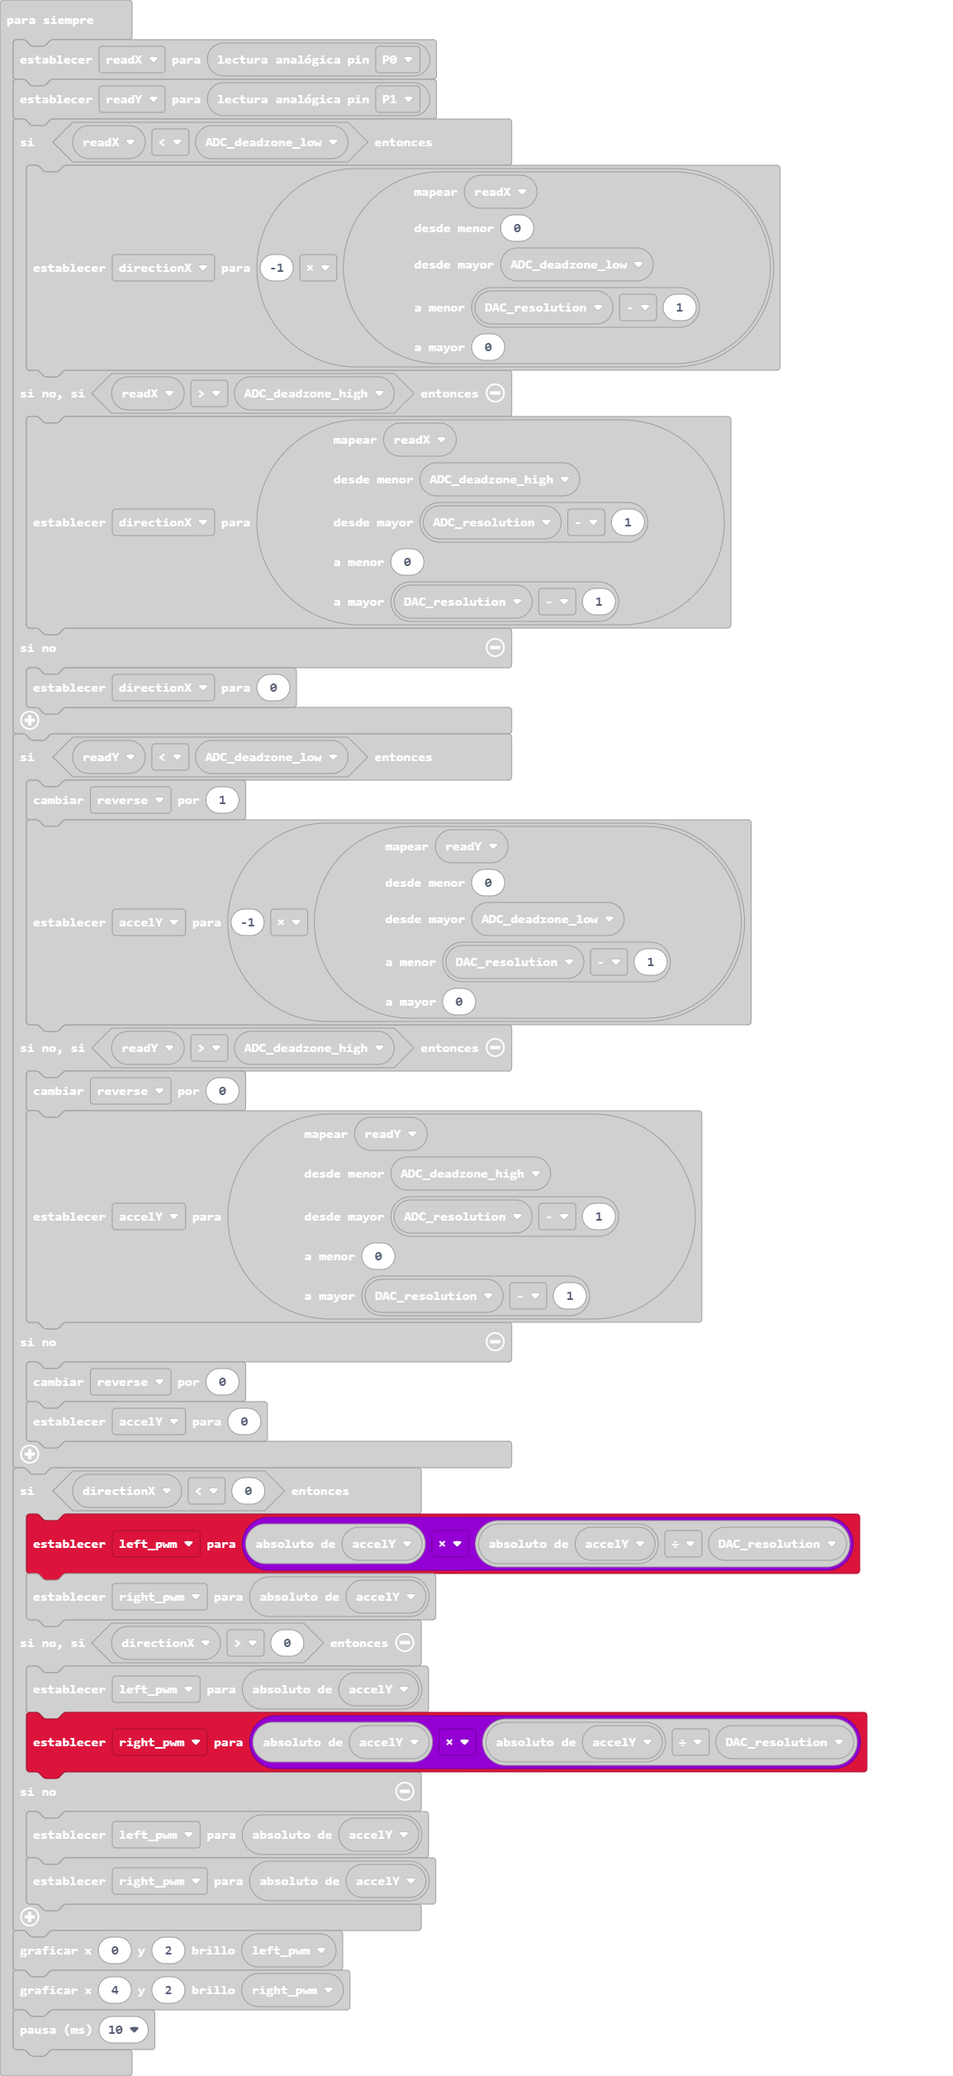
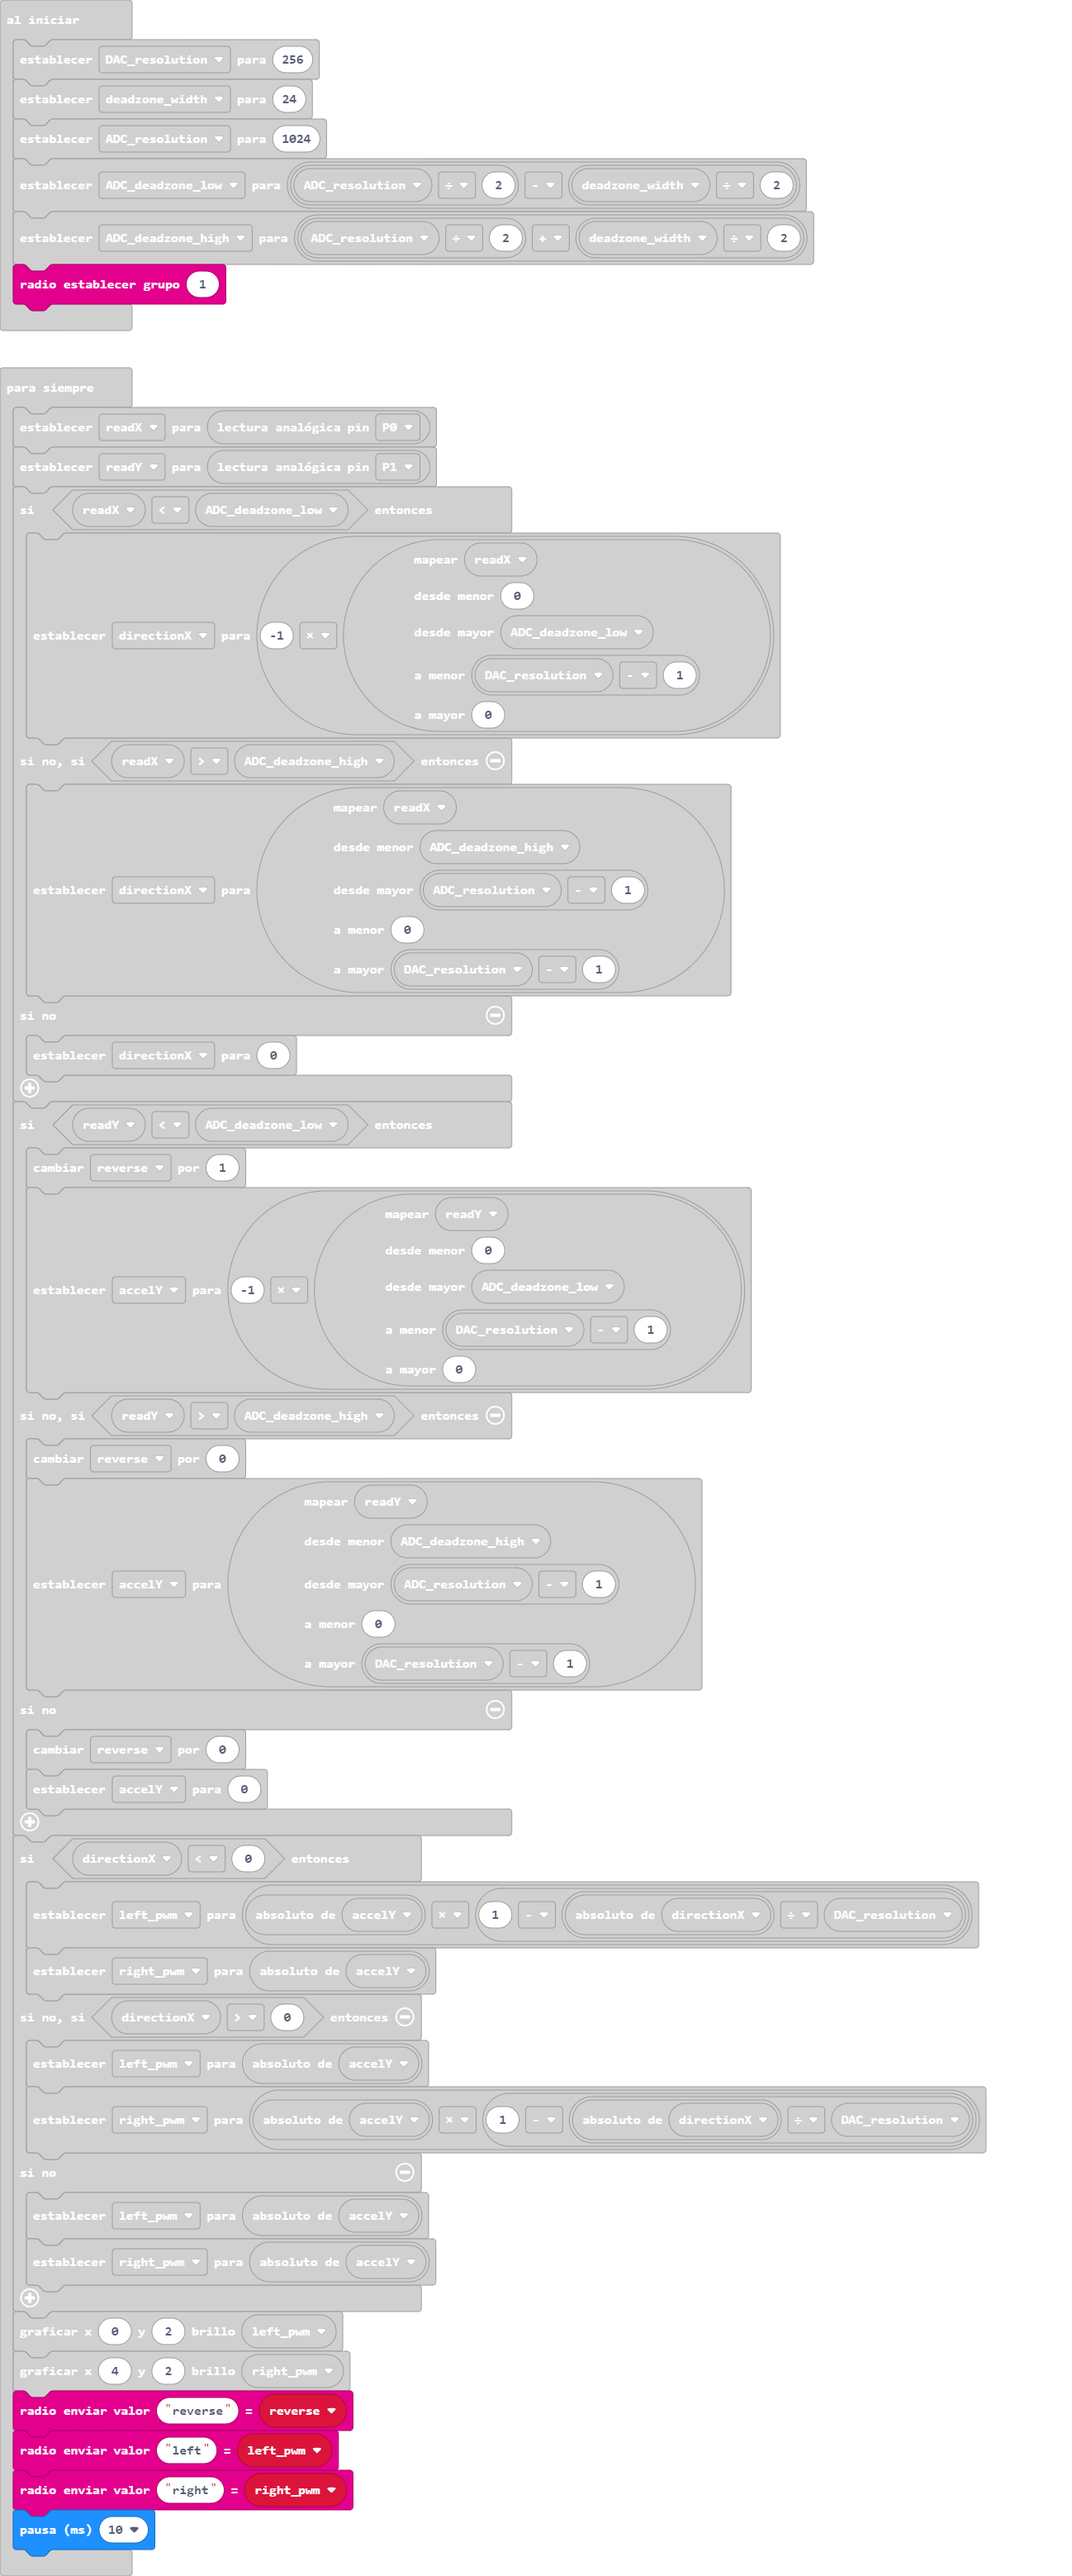
send to radio

Changed region(s): [[0.0, 0.0, 0.9359, 1.0]]

diff --git a/main.ts b/main.ts
@@ -10,6 +10,7 @@ let deadzone_width = 24
 let ADC_resolution = 1024
 let ADC_deadzone_low = ADC_resolution / 2 - deadzone_width / 2
 let ADC_deadzone_high = ADC_resolution / 2 + deadzone_width / 2
+radio.setGroup(1)
 basic.forever(function () {
     readX = pins.analogReadPin(AnalogPin.P0)
     readY = pins.analogReadPin(AnalogPin.P1)
@@ -66,5 +67,8 @@ basic.forever(function () {
     }
     led.plotBrightness(0, 2, left_pwm)
     led.plotBrightness(4, 2, right_pwm)
+    radio.sendValue("reverse", reverse)
+    radio.sendValue("left", left_pwm)
+    radio.sendValue("right", right_pwm)
     basic.pause(10)
 })
